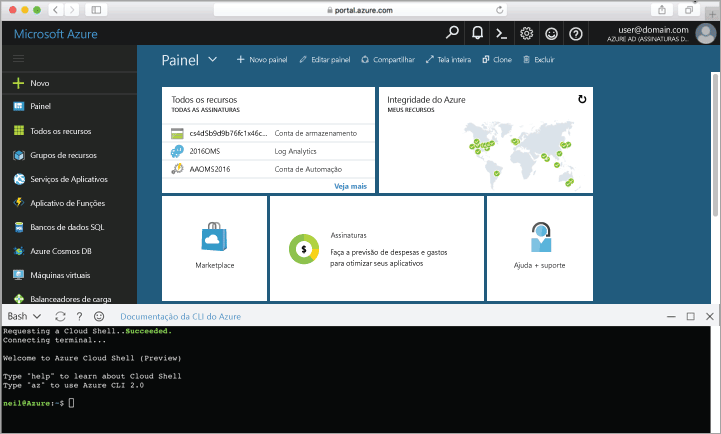
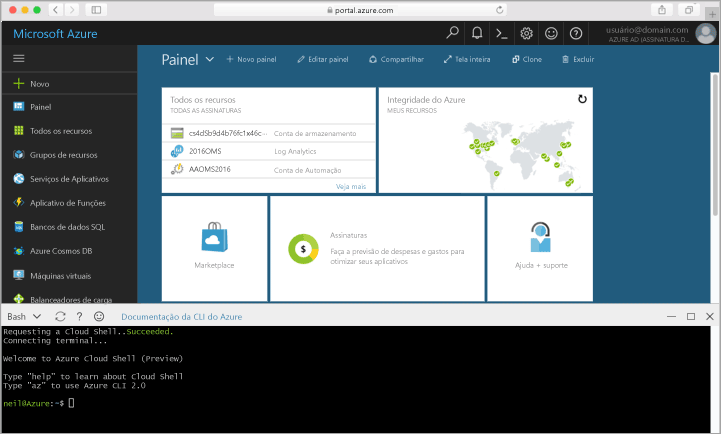
Commit translated content

diff --git a/articles/virtual-machines/virtual-machines-azure-slave-plugin-for-hudson-classic.md b/articles/virtual-machines/virtual-machines-azure-slave-plugin-for-hudson-classic.md
@@ -1,0 +1,199 @@
+---
+title: "Como usar o plug-in subordinado do Azure com a Integração contínua do Hudson | Microsoft Docs"
+description: "Descreve como usar o plug-in subordinado do Azure com a Integração contínua do Hudson."
+services: virtual-machines-linux
+documentationcenter: 
+author: rmcmurray
+manager: wpickett
+editor: 
+ms.assetid: b2083d1c-4de8-4a19-a615-ccc9d9b6e1d9
+ms.service: virtual-machines-linux
+ms.workload: infrastructure-services
+ms.tgt_pltfrm: vm-multiple
+ms.devlang: java
+ms.topic: article
+ms.date: 04/25/2017
+ms.author: robmcm
+ms.openlocfilehash: c11b59f8ea432075b147a391de4b7bd3331e639e
+ms.sourcegitcommit: 6699c77dcbd5f8a1a2f21fba3d0a0005ac9ed6b7
+ms.translationtype: HT
+ms.contentlocale: pt-BR
+ms.lasthandoff: 10/11/2017
+---
+# <a name="how-to-use-the-azure-slave-plug-in-with-hudson-continuous-integration"></a>Como usar o plug-in subordinado do Azure com a Integração contínua do Hudson
+O plug-in subordinado do Azure para Hudson permite provisionar nós subordinados no Azure ao executar compilações distribuídas.
+
+## <a name="install-the-azure-slave-plug-in"></a>Instalar o plug-in subordinado do Azure
+1. No painel do Hudson, clique em **Manage Hudson**.
+2. Na página **Gerenciar Hudson**, clique em **Gerenciar Plug-ins**.
+3. Clique na guia **Disponível** .
+4. Clique em **Pesquisar** e digite **Azure** para limitar a lista a plug-ins relevantes.
+   
+    Se optar por rolar a lista de plug-ins disponíveis, você encontrará o plug-in subordinado do Azure na seção **Gerenciamento de Cluster e Build Distribuído** da guia **Outros**.
+5. Marque a caixa de seleção **Azure Slave Plugin**.
+6. Clique em **Instalar**.
+7. Reinicie o Hudson.
+
+Agora que o plug-in está instalado, as próximas etapas são a configuração do plug-in com seu perfil de assinatura do Azure e criação de um modelo que será usado na criação da VM para o nó subordinado.
+
+## <a name="configure-the-azure-slave-plug-in-with-your-subscription-profile"></a>Configurar o plug-in subordinado do Azure com seu perfil de assinatura
+Um perfil de assinatura, também conhecido como configurações de publicação, é um arquivo XML que contém credenciais seguras e informações adicionais, das quais você precisará para trabalhar com o Azure no ambiente de desenvolvimento. Para configurar o plug-in subordinado do Azure, você precisa dos seguintes itens:
+
+* A ID de sua assinatura
+* Um certificado de gerenciamento da sua assinatura
+
+Eles podem ser encontrados em seu [perfil de assinatura]. Veja a seguir um exemplo de perfil de assinatura.
+
+    <?xml version="1.0" encoding="utf-8"?>
+
+        <PublishData>
+
+          <PublishProfile SchemaVersion="2.0" PublishMethod="AzureServiceManagementAPI">
+
+        <Subscription
+
+              ServiceManagementUrl="https://management.core.windows.net"
+
+              Id="<Subscription ID>"
+
+              Name="Pay-As-You-Go"
+            ManagementCertificate="<Management certificate value>" />
+
+          </PublishProfile>
+
+    </PublishData>
+
+Após obter seu perfil de assinatura, siga estas etapas para configurar o plug-in subordinado do Azure.
+
+1. No painel do Hudson, clique em **Manage Hudson**.
+2. Clique em **Configure System**.
+3. Role a página para encontrar a seção **Cloud** .
+4. Clique em **Adicionar nova nuvem > Microsoft Azure**.
+   
+    ![adicionar nova nuvem][add new cloud]
+   
+    Isso mostrará os campos em que você precisa inserir os detalhes da sua assinatura.
+   
+    ![configurar perfil][configure profile]
+5. Copie o certificado de gerenciamento e a ID de assinatura do seu perfil de assinatura e cole-os nos campos apropriados.
+   
+    Ao copiar o certificado de gerenciamento e a ID de assinatura, **não** inclua as aspas que contêm os valores.
+6. Clique em **Verify configuration**.
+7. Quando a configuração for verificada com êxito, clique em **Save**.
+
+## <a name="set-up-a-virtual-machine-template-for-the-azure-slave-plug-in"></a>Configurar um modelo de máquina virtual para o plug-in subordinado do Azure
+Um modelo de máquina virtual define os parâmetros que o plug-in usará para criar um nó subordinado no Azure. Nas etapas a seguir, criaremos o modelo para uma VM do Ubuntu.
+
+1. No painel do Hudson, clique em **Manage Hudson**.
+2. Clique em **Configure System**.
+3. Role a página para encontrar a seção **Cloud** .
+4. Dentro da seção **Nuvem**, encontre **Adicionar Modelo de Máquina Virtual do Azure** e clique no botão **Adicionar**.
+   
+    ![adicionar modelo de vm][add vm template]
+5. Especifique um nome de serviço de nuvem no campo **Name** . Se o nome especificado se referir a um serviço de nuvem existente, a VM será provisionada nesse serviço. Caso contrário, o Azure criará um novo.
+6. No campo **Description** , especifique o texto que descreve o modelo que você está criando. Essas informações são apenas para fins de documentação e não são usadas no provisionamento de uma VM.
+7. No campo **Rótulos**, digite **linux**. Esse rótulo é usado para identificar o modelo que você está criando e, mais à frente, é usado para referenciar o modelo ao criar um trabalho do Hudson.
+8. Selecione uma região onde a VM será criada.
+9. Selecione o tamanho adequado da VM.
+10. Selecione uma conta de armazenamento onde a VM será criada. Verifique se ela está na mesma região do serviço de nuvem que será usado. Caso deseje criar um novo armazenamento, deixe esse campo em branco.
+11. O tempo de retenção especifica o número de minutos antes de o Hudson excluir um subordinado ocioso. Deixe o valor padrão de 60.
+12. Em **Usage**, selecione a condição apropriada quando esse nó subordinado será usado. Por enquanto, selecione **Utilize this node as much as possible**.
+    
+     Neste momento, seu formulário será semelhante a este:
+    
+     ![configuração de modelo][template config]
+13. Em **Image Family or Id** , você precisa especificar qual imagem do sistema será instalada em sua VM. Você pode selecionar em uma lista de famílias de imagens ou especificar uma imagem personalizada.
+    
+     Caso deseje selecionar em uma lista de famílias de imagens, digite o primeiro caractere (diferencia maiúsculas de minúsculas) do nome da família de imagens. Por exemplo, se você digitar **U** , será exibida uma lista das famílias de servidores do Ubuntu. Quando você selecionar na lista, o Jenkins usará a versão mais recente da imagem do sistema dessa família ao provisionar sua VM.
+    
+     ![lista de famílias de SO][OS family list]
+    
+     Se você tiver uma imagem personalizada que deseja usar, insira o nome dessa imagem. Os nomes de imagens personalizadas não são mostrados em uma lista; por isso, você precisará garantir que o nome foi digitado corretamente.    
+    
+     Para este tutorial, digite **U** para exibir uma lista de imagens do Ubuntu e selecione **Ubuntu Server 14.04 LTS**.
+14. Em **Método de Inicialização**, selecione **SSH**.
+15. Copie o script abaixo e cole no campo **Init script** .
+    
+         # Install Java
+    
+         sudo apt-get -y update
+    
+         sudo apt-get install -y openjdk-7-jdk
+    
+         sudo apt-get -y update --fix-missing
+    
+         sudo apt-get install -y openjdk-7-jdk
+    
+         # Install git
+    
+         sudo apt-get install -y git
+    
+         #Install ant
+    
+         sudo apt-get install -y ant
+    
+         sudo apt-get -y update --fix-missing
+    
+         sudo apt-get install -y ant
+    
+     O **script de inicialização** será executado após a criação da VM. Neste exemplo, o script instala ant, git e Java.
+16. Nos campos **Nome de Usuário** e **Senha**, insira valores de sua preferência para a conta de administrador que será criada na sua VM.
+17. Clique em **Verify Template** para verificar se os parâmetros especificados são válidos.
+18. Clique em **Save**.
+
+## <a name="create-a-hudson-job-that-runs-on-a-slave-node-on-azure"></a>Criar um trabalho do Hudson executado em um nó subordinado no Azure
+Nesta seção, você criará uma tarefa do Hudson que será executada em um nó subordinado no Azure.
+
+1. No painel do Hudson, clique em **New Job**.
+2. Digite um nome para o trabalho que você está criando.
+3. Para o tipo de trabalho, selecione **Build a free-style software job**.
+4. Clique em **OK**.
+5. Na página de configuração de trabalho, selecione **Restrict where this project can be run**.
+6. Selecione **Menu de nó e rótulo** e selecione **linux** (especificamos esse rótulo ao criar o modelo de máquina virtual na seção anterior).
+7. No seção **Build**, clique em **Adicionar etapa de build** e selecione **Executar shell**.
+8. Edite o seguinte script, substituindo **{nome da sua conta do GitHub}**, **{nome do projeto}** e **{diretório do projeto}** por valores apropriados e cole o script editado na área de texto exibida.
+   
+        # Clone from git repo
+   
+        currentDir="$PWD"
+   
+        if [ -e {your project directory} ]; then
+   
+              cd {your project directory}
+   
+              git pull origin master
+   
+        else
+   
+              git clone https://github.com/{your github account name}/{your project name}.git
+   
+        fi
+   
+        # change directory to project
+   
+        cd $currentDir/{your project directory}
+   
+        #Execute build task
+   
+        ant
+9. Clique em **Save**.
+10. No painel do Hudson, localize o trabalho que você acabou de criar e clique no ícone **Schedule a build** .
+
+Em seguida, o Hudson criará um nó subordinado usando o modelo criado na seção anterior e executará o script que você especificou na etapa de compilação dessa tarefa.
+
+## <a name="next-steps"></a>Próximas etapas
+Para obter mais informações sobre como usar o Azure com o Java, confira a [Central de desenvolvimento Java do Azure].
+
+<!-- URL List -->
+
+[Central de desenvolvimento Java do Azure]: https://azure.microsoft.com/develop/java/
+[perfil de assinatura]: http://go.microsoft.com/fwlink/?LinkID=396395
+
+<!-- IMG List -->
+
+[add new cloud]: ./media/virtual-machines-azure-slave-plugin-for-hudson/hudson-setup-addcloud.png
+[configure profile]: ./media/virtual-machines-azure-slave-plugin-for-hudson/hudson-setup-configureprofile.png
+[add vm template]: ./media/virtual-machines-azure-slave-plugin-for-hudson/hudson-setup-addnewvmtemplate.png
+[template config]: ./media/virtual-machines-azure-slave-plugin-for-hudson/hudson-setup-templateconfig1-withdata.png
+[OS family list]: ./media/virtual-machines-azure-slave-plugin-for-hudson/hudson-oslist.png
+

diff --git a/articles/virtual-machines/linux/classic/ruby-rails-web-app.md b/articles/virtual-machines/linux/classic/ruby-rails-web-app.md
@@ -1,0 +1,157 @@
+---
+title: Hospedar um site Ruby on Rails em uma VM do Linux | Microsoft Docs
+description: "Configurar e hospedar um site da Web baseado no Ruby on Rails no Azure usando uma máquina virtual do Linux."
+services: virtual-machines-linux
+documentationcenter: ruby
+author: rmcmurray
+manager: erikre
+editor: 
+tags: azure-service-management
+ms.assetid: aad32685-3550-4bff-9c73-beb8d70b3291
+ms.service: virtual-machines-linux
+ms.workload: web
+ms.tgt_pltfrm: vm-linux
+ms.devlang: ruby
+ms.topic: article
+ms.date: 06/27/2017
+ms.author: robmcm
+ms.openlocfilehash: fb6ded1dcba2ac0f78fc6f1f4f7de9238cd752bd
+ms.sourcegitcommit: ce934aca02072bdd2ec8d01dcbdca39134436359
+ms.translationtype: HT
+ms.contentlocale: pt-BR
+ms.lasthandoff: 11/08/2017
+---
+# <a name="ruby-on-rails-web-application-on-an-azure-vm"></a>Aplicativo Web Ruby on Rails Web em uma VM do Azure
+Esse tutorial descreve como hospedar um site Ruby on Rails no Azure usando uma máquina virtual do Linux.  
+
+Este tutorial foi validado usando o Ubuntu Server 14.04 LTS. Se você usar uma distribuição Linux diferente, talvez seja necessário modificar as etapas para instalar o Rails.
+
+> [!IMPORTANT]
+> O Azure tem dois modelos de implantação diferentes para criar e trabalhar com recursos: [Gerenciador de Recursos e clássico](../../../azure-resource-manager/resource-manager-deployment-model.md).  Este artigo aborda o uso do modelo de implantação clássica. A Microsoft recomenda que a maioria das implantações novas use o modelo do Gerenciador de Recursos.
+> [!INCLUDE [virtual-machines-common-classic-createportal](../../../../includes/virtual-machines-classic-portal.md)]
+>
+
+## <a name="create-an-azure-vm"></a>Criar uma VM do Azure
+Comece criando uma VM do Azure com uma imagem do Linux.
+
+Para criar a VM, você pode usar o Portal do Azure ou a CLI (interface de linha de comando) do Azure.
+
+### <a name="azure-portal"></a>Portal do Azure
+1. Entre no [Portal do Azure](https://portal.azure.com)
+2. Clique em **Novo**, digite "Servidor do Ubuntu 14.04" na caixa de pesquisa. Clique na entrada retornada pela pesquisa. Para o modelo de implantação, selecione **Clássico** e, em seguida, clique em "Criar".
+3. Na folha Noções básicas, forneça valores para os campos obrigatórios: Nome (para a VM), Nome de usuário, Tipo de autenticação e as credenciais correspondentes, Assinatura do Azure, Grupo de recursos e Local.
+
+   ![Criar uma nova imagem Ubuntu](./media/virtual-machines-linux-classic-ruby-rails-web-app/createvm.png)
+
+4. Após o provisionamento da VM, clique no nome da VM e clique em **Pontos de extremidade** na categoria **Configurações**. Localize o ponto de extremidade do SSH, listado sob **Autônomo**.
+
+   ![Ponto de extremidade padrão](./media/virtual-machines-linux-classic-ruby-rails-web-app/endpointsnewportal.png)
+
+### <a name="azure-cli"></a>CLI do Azure
+Siga as etapas em [Como criar uma máquina virtual personalizada que executa o Linux][vm-instructions].
+
+Depois que a VM for provisionada, você pode obter o ponto de extremidade do SSH executando o seguinte comando:
+
+    azure vm endpoint list <vm-name>  
+
+## <a name="install-ruby-on-rails"></a>Instalar o Ruby on Rails
+1. Use SSH para conectar-se à VM.
+2. Na sessão de SSH, use os seguintes comandos para instalar o Ruby na VM:
+
+        sudo apt-get update -y
+        sudo apt-get upgrade -y
+
+        sudo apt-add-repository ppa:brightbox/ruby-ng
+        sudo apt-get update
+        sudo apt-get install ruby2.4
+
+        > [!TIP]
+        > The brightbox repository contains the current Ruby distribution.
+
+    A instalação pode levar alguns minutos. Quando for concluído, use o seguinte comando para verificar se o Ruby está instalado:
+
+        ruby -v
+
+3. Use o comando a seguir para instalar o Rails:
+
+        sudo gem install rails --no-rdoc --no-ri -V
+
+    Use-sinalizadores --no-rdoc e --no-ri para instalar a documentação, o que é mais rápido.
+    Provavelmente, este comando demorará muito para ser executado; portanto, ao adicionar -V serão exibidas informações sobre o progresso da instalação.
+
+## <a name="create-and-run-an-app"></a>Criar e executar um aplicativo
+Enquanto ainda estiver conectado via SSH, execute os seguintes comandos:
+
+    rails new myapp
+    cd myapp
+    rails server -b 0.0.0.0 -p 3000
+
+O comando [new](http://guides.rubyonrails.org/command_line.html#rails-new) cria um novo aplicativo Rails. O comando [server](http://guides.rubyonrails.org/command_line.html#rails-server) inicia o servidor Web WEBrick que acompanha o Rails. (Para uso em produção, você provavelmente desejaria usar um servidor diferente, como Unicorn ou Passenger.)
+
+Você deve ver saídas semelhantes às seguintes.
+
+    => Booting WEBrick
+    => Rails 4.2.1 application starting in development on http://0.0.0.0:3000
+    => Run `rails server -h` for more startup options
+    => Ctrl-C to shutdown server
+    [2015-06-09 23:34:23] INFO  WEBrick 1.3.1
+    [2015-06-09 23:34:23] INFO  ruby 1.9.3 (2013-11-22) [x86_64-linux]
+    [2015-06-09 23:34:23] INFO  WEBrick::HTTPServer#start: pid=27766 port=3000
+
+## <a name="add-an-endpoint"></a>Adicionar um ponto de extremidade
+1. Acesse o [Portal do Azure] [https://portal.azure.com] e selecione sua VM.
+
+2. Selecione **PONTOS DE EXTREMIDADE** em **Configurações** na borda esquerda da página.
+
+3. Clique em **ADICIONAR** na parte superior da página.
+
+4. Na página de diálogo **Adicionar ponto de extremidade**, insira as seguintes informações:
+
+   * **Nome**: HTTP
+   * **Protocolo**: TCP
+   * **Porta pública**: 80
+   * **Porta privada**: 3000
+   * **Endereço PI flutuante**: Desabilitado
+   * **Lista de controle de acesso - Ordem**: 1001, ou outro valor que defina a prioridade desta regra de acesso.
+   * **Lista de controle de acesso - Nome**: allowHTTP
+   * **Lista de controle de acesso - Ação**: permitir
+   * **Lista de controle de acesso - Sub-rede remota**: 1.0.0.0/16
+
+     Esse ponto de extremidade tem uma porta pública de 80 que roteará o tráfego para a porta privada de 3000, na qual o servidor Rails está escutando. A regra da lista de controle de acesso permite o tráfego o público na porta 80.
+
+     ![new-endpoint](./media/virtual-machines-linux-classic-ruby-rails-web-app/createendpoint.png)
+
+5. Clique em OK para salvar o ponto de extremidade.
+
+6. Uma mensagem deverá aparecer indicando **Salvando o ponto de extremidade da máquina virtual**. Depois que a mensagem desaparecer, o ponto de extremidade estará ativo. Você já pode testar seu aplicativo navegando até o nome DNS de sua máquina virtual. O site deve aparecer ao seguinte:
+
+    ![página padrão de rails][default-rails-cloud]
+
+## <a name="next-steps"></a>Próximas etapas
+Neste tutorial, você realizou a maior parte das etapas manualmente. Em um ambiente de produção, você gravaria seu aplicativo em um computador de desenvolvimento e o implantaria em VM do Azure. Além disso, a maioria dos ambientes de produção hospeda o aplicativo Rails em conjunto com outro processo do servidor como Apache ou NginX, que trata o roteamento da solicitação para várias instâncias do aplicativo Rails e atende recursos estáticos. Para obter mais informações, consulte http://rubyonrails.org/deploy/.
+
+Para saber mais sobre o Ruby on Rails, visite os [Guias do Ruby on Rails][rails-guides].
+
+Para usar os serviços do Azure de seu aplicativo Ruby, consulte:
+
+* [Armazenar dados desestruturados usando blobs][blobs]
+* [Armazenar pares de chave/valor usando tabelas][tables]
+* [Fornecer conteúdo de alta largura de banda com a Rede de Distribuição de Conteúdo][cdn-howto]
+
+<!-- WA.com links -->
+[blobs]:../../../storage/blobs/storage-ruby-how-to-use-blob-storage.md
+[cdn-howto]:https://azure.microsoft.com/develop/ruby/app-services/
+[tables]:../../../cosmos-db/table-storage-how-to-use-ruby.md
+[vm-instructions]:createportal.md
+
+<!-- External Links -->
+[rails-guides]:http://guides.rubyonrails.org/
+[sqlite3]:http://www.sqlite.org/
+
+<!-- Images -->
+
+[default-rails-cloud]:./media/virtual-machines-linux-classic-ruby-rails-web-app/basicrailscloud.png
+[vmlist]:./media/virtual-machines-linux-classic-ruby-rails-web-app/vmlist.png
+[endpoints]:./media/virtual-machines-linux-classic-ruby-rails-web-app/endpoints.png
+[new-endpoint]:./media/virtual-machines-linux-classic-ruby-rails-web-app/newendpoint.png
+[new-endpoint1]:./media/virtual-machines-linux-classic-ruby-rails-web-app/newendpoint1.png
